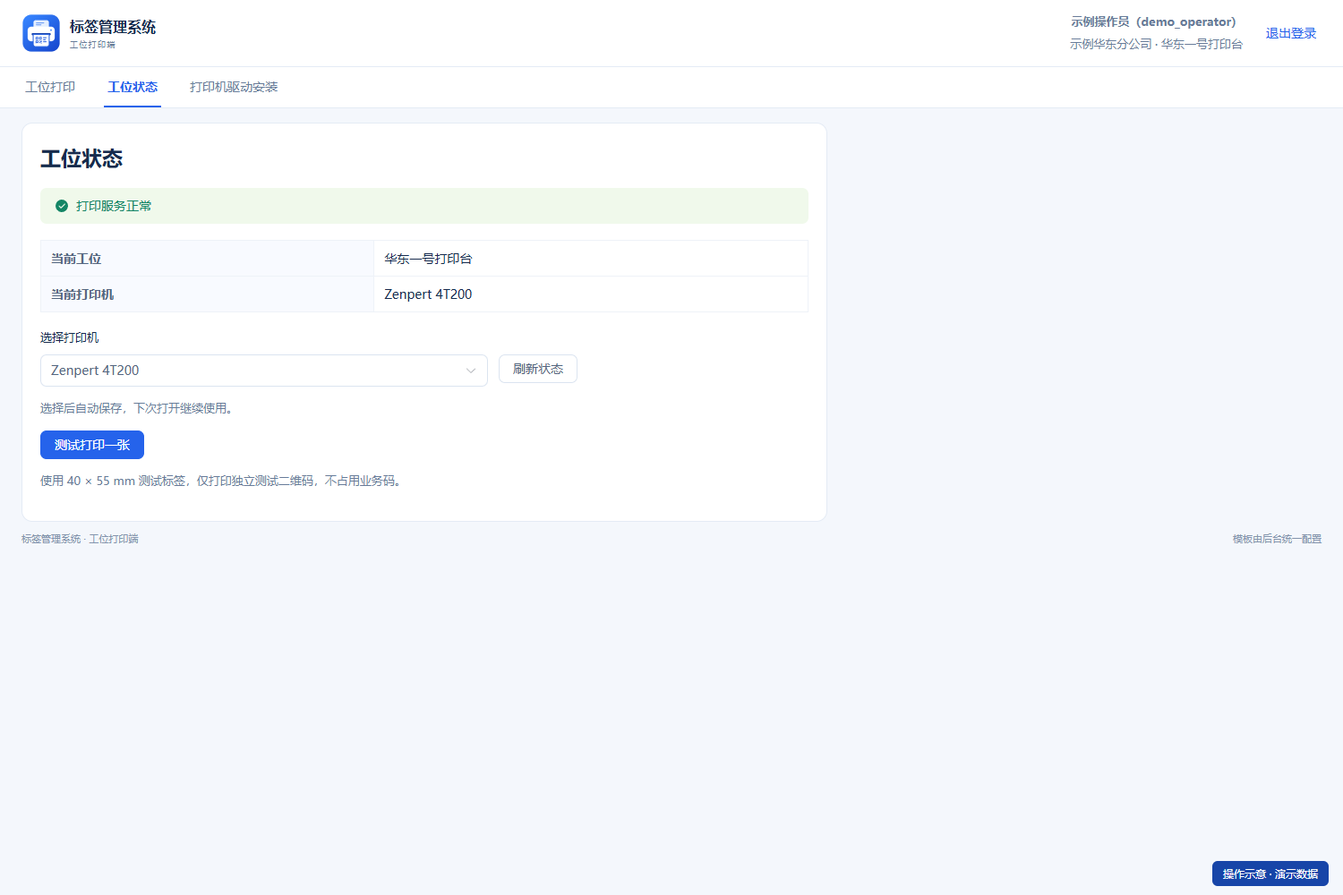
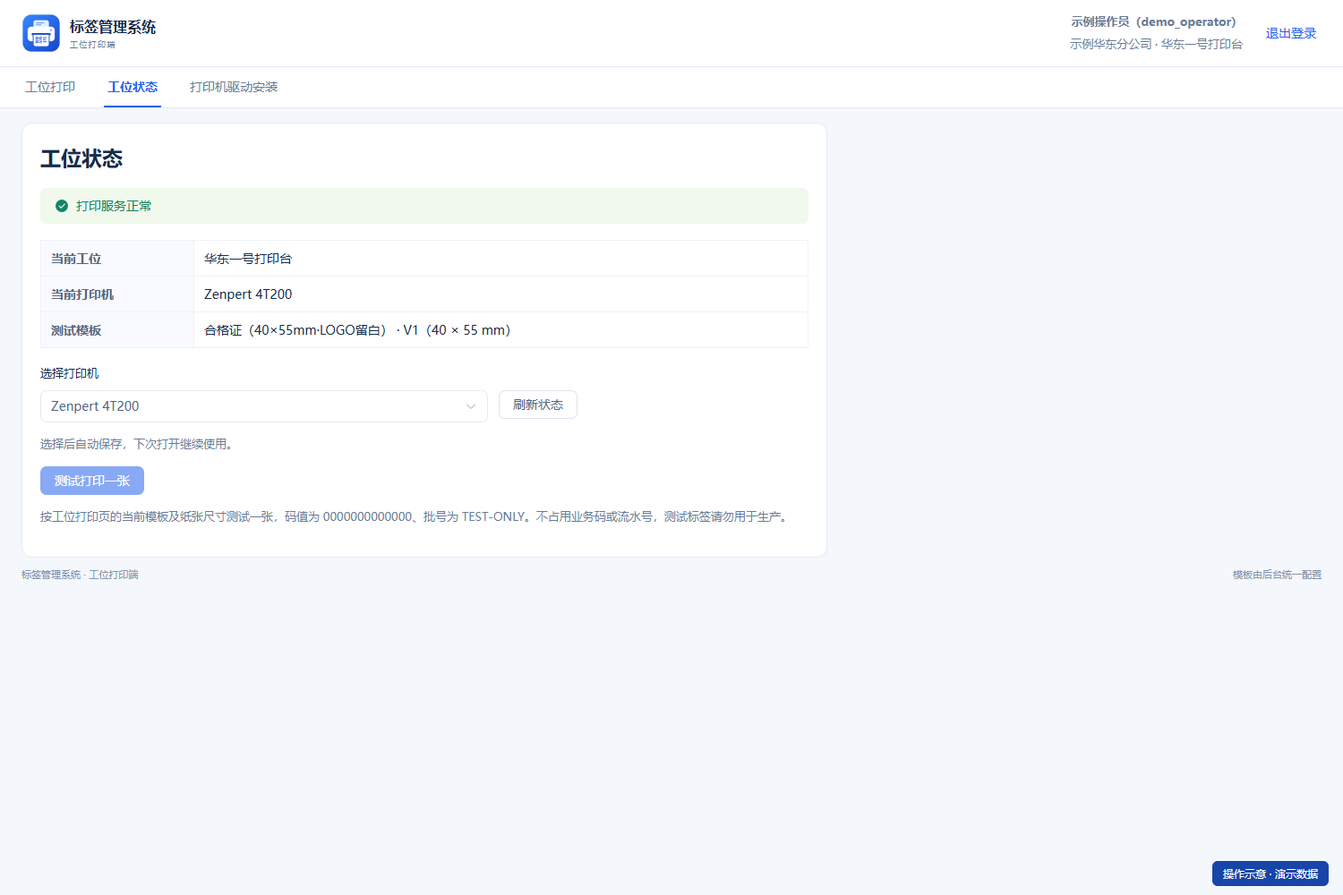
feat: 接入部署服务并完善工位打印与安装包
打印端连接 lms.yuwangchenfa.com，增加受限 IPC 请求通道。支持切回页面刷新码量、按当前模板测试打印并优化三栏布局。提供 Win10 x86/x64 合一安装包配置、验证记录和同步使用说明。

diff --git a/print-client/src/renderer/App.vue b/print-client/src/renderer/App.vue
@@ -10,14 +10,14 @@
       <button v-if="user" class="logout-button" @click="logout">退出登录</button>
     </header>
       <nav class="station-tabs" aria-label="工位导航">
-        <button :class="{ active: tab === 'print' }" @click="tab = 'print'">{{ workstationId ? '工位打印' : '操作员登录' }}</button>
+        <button :class="{ active: tab === 'print' }" @click="showPrint">{{ workstationId ? '工位打印' : '操作员登录' }}</button>
         <button v-if="workstationId" :class="{ active: tab === 'settings' }" @click="tab = 'settings'">工位状态</button>
         <button :class="{ active: tab === 'drivers' }" @click="tab = 'drivers'">打印机驱动安装</button>
       </nav>
     <BindWorkstationView v-if="!workstationId && tab !== 'drivers'" :session-user="user" @bound="onBound" />
       <main v-if="workstationId || tab === 'drivers'" class="station-content">
-        <PrintView v-if="workstationId" v-show="tab === 'print'" />
-        <SettingsView v-if="tab === 'settings' && workstationId" :workstation-id="workstationId" />
+        <PrintView v-if="workstationId" v-show="tab === 'print'" ref="printView" @template-change="currentTemplate = $event" />
+        <SettingsView v-if="tab === 'settings' && workstationId" :workstation-id="workstationId" :current-template="currentTemplate" />
         <DriverInstallView v-if="tab === 'drivers'" :bound="!!workstationId" @settings="tab = workstationId ? 'settings' : 'print'" />
         <footer class="app-footer"><span>标签管理系统 · 工位打印端</span><span>模板由后台统一配置</span></footer>
       </main>
@@ -27,6 +27,7 @@
 import { onMounted, onUnmounted, ref } from 'vue'
 import { setToken } from './api/client'
 import type { MeUser, BindResponse } from './api/workstation'
+import type { TemplatePreview } from './api/print'
 import BindWorkstationView from './views/BindWorkstationView.vue'
 import PrintView from './views/PrintView.vue'
 import SettingsView from './views/SettingsView.vue'
@@ -39,19 +40,27 @@ const user = ref<MeUser | null>(null)
 const boundName = ref('')
 const workstationId = ref<number | null>(null)
 const tab = ref<'print' | 'settings' | 'drivers'>('print')
+const printView = ref<InstanceType<typeof PrintView> | null>(null)
+const currentTemplate = ref<TemplatePreview | null>(null)
+function showPrint(): void {
+  tab.value = 'print'
+  void printView.value?.refresh()
+}
 function onBound(id: number, profile: MeUser, station: BindResponse): void {
+  currentTemplate.value = null
   workstationId.value = id
   user.value = profile
   boundName.value = station.name
 }
 function logout(): void {
+  currentTemplate.value = null
   setToken(null)
   user.value = null
   workstationId.value = null
   boundName.value = ''
   tab.value = 'print'
 }
-function bindingInvalid(): void { workstationId.value = null; boundName.value = ''; tab.value = 'print' }
+function bindingInvalid(): void { currentTemplate.value = null; workstationId.value = null; boundName.value = ''; tab.value = 'print' }
 onMounted(() => window.addEventListener('lms:binding-invalid', bindingInvalid))
 onUnmounted(() => window.removeEventListener('lms:binding-invalid', bindingInvalid))
 </script>

diff --git a/print-client/src/renderer/views/SettingsView.vue b/print-client/src/renderer/views/SettingsView.vue
@@ -5,6 +5,7 @@
     <el-descriptions :column="1" border class="service-details">
       <el-descriptions-item label="当前工位">{{ stationName || '—' }}</el-descriptions-item>
       <el-descriptions-item label="当前打印机">{{ saved || '尚未选择' }}</el-descriptions-item>
+      <el-descriptions-item label="测试模板">{{ currentTemplate ? `${currentTemplate.name} · V${currentTemplate.version_no}（${currentTemplate.elements_json.paper_width_mm} × ${currentTemplate.elements_json.paper_height_mm} mm）` : '请先在工位打印页选择产品并加载当前模板' }}</el-descriptions-item>
     </el-descriptions>
     <label class="field-label">选择打印机</label>
     <div class="printer-choice">
@@ -15,8 +16,8 @@
     </div>
     <p class="hint">选择后自动保存，下次打开继续使用。</p>
     <el-alert v-if="saved && serviceOk && !printers.includes(saved)" title="已保存的打印机当前不可用，请重新选择或检查连接。" type="warning" :closable="false" />
-    <el-button type="primary" :loading="testing" :disabled="!serviceOk || !saved || !printers.includes(saved) || saving" @click="testPrint">测试打印一张</el-button>
-    <p class="hint">使用 40 × 55 mm 测试标签，仅打印独立测试二维码，不占用业务码。</p>
+    <el-button type="primary" :loading="testing" :disabled="!serviceOk || !saved || !printers.includes(saved) || saving || !currentTemplate" @click="testPrint">测试打印一张</el-button>
+    <p class="hint">按工位打印页的当前模板及纸张尺寸测试一张，码值为 0000000000000、批号为 TEST-ONLY。不占用业务码或流水号，测试标签请勿用于生产。</p>
   </section>
 </template>
 <script setup lang="ts">
@@ -26,7 +27,8 @@ import { isPrintServiceAlive, getDefaultPrinter, listPrinters, print } from '../
 import { getMachineBinding, setWorkstationPrinter } from '../api/workstation'
 import { getBoundPrinter, setBoundPrinter } from '../api/client'
 import { testLabel } from '../utils/testLabel'
-const props = defineProps<{workstationId:number}>()
+import type { TemplatePreview } from '../api/print'
+const props = defineProps<{workstationId:number;currentTemplate:TemplatePreview|null}>()
 const serviceOk=ref(false), stationName=ref(''), loading=ref(false), saving=ref(false), testing=ref(false)
 const printers=ref<string[]>([]), saved=ref(getBoundPrinter() ?? ''), selection=ref(saved.value)
 async function save():Promise<void> {
@@ -54,9 +56,10 @@ async function refresh():Promise<void> {
   finally {loading.value=false}
 }
 async function testPrint():Promise<void> {
+  if (!props.currentTemplate) { ElMessage.warning('请先在工位打印页选择产品并加载当前模板'); return }
   testing.value=true
   try {
-    const result=await print({...testLabel(new Date()),deviceName:saved.value})
+    const result=await print({...testLabel(props.currentTemplate,new Date()),deviceName:saved.value})
     if(!result.ok) throw new Error(result.error ?? '测试打印失败')
     ElMessage.success('已发送一张测试标签')
   } catch(e) {ElMessage.error(e instanceof Error ? e.message : '测试打印失败')}

diff --git a/print-client/src/renderer/views/PrintView.vue b/print-client/src/renderer/views/PrintView.vue
@@ -29,7 +29,7 @@
       <div class="print-results">
         <section class="station-panel">
           <h2>本次任务</h2>
-          <el-table v-if="task.length" :data="task" size="small" height="140"><el-table-column prop="code_value" label="码值" min-width="200" /><el-table-column label="结果" width="140"><template #default="{ row }"><el-tag :type="tagType(row)" size="small">{{ tagLabel(row) }}</el-tag></template></el-table-column><el-table-column label="说明" min-width="160"><template #default="{ row }">{{ row.message ?? '—' }}</template></el-table-column></el-table>
+          <el-table v-if="task.length" :data="task" size="small" height="100%"><el-table-column prop="code_value" label="码值" min-width="200" /><el-table-column label="结果" width="140"><template #default="{ row }"><el-tag :type="tagType(row)" size="small">{{ tagLabel(row) }}</el-tag></template></el-table-column><el-table-column label="说明" min-width="160"><template #default="{ row }">{{ row.message ?? '—' }}</template></el-table-column></el-table>
           <el-empty v-else :image-size="40" description="尚未发起打印" />
           <div v-if="hasLocked" class="failure-action"><el-button type="warning" :loading="confirming" @click="doConfirmFailed">标记失败并回退</el-button></div>
         </section>
@@ -40,7 +40,7 @@
 </template>
 <script setup lang="ts">
 import { ElMessage } from 'element-plus'
-import { computed, onMounted, onUnmounted, ref } from 'vue'
+import { computed, onMounted, onUnmounted, ref, watch } from 'vue'
 
 import { ApiError, getBoundWorkstationId, getBoundPrinter, setBoundPrinter, request } from '../api/client'
 import { getMachineBinding, setWorkstationPrinter } from '../api/workstation'
@@ -50,13 +50,15 @@ import {
   startPrint,
   type AcceptedPrint,
   type PrintableCode,
+  type TemplatePreview as TemplatePreviewData,
 } from '../api/print'
 import { isPrintServiceAlive, getDefaultPrinter, listPrinters, print } from '../api/print-service'
 import { useHeartbeat } from '../composables/useHeartbeat'
 import TaskView from './TaskView.vue'
 import TemplatePreview from '../components/TemplatePreview.vue'
-import type { TemplateDoc } from '../../print-render/renderer'
-const preview = ref<{name:string; version_no:number; elements_json:TemplateDoc; data:Record<string,string>} | null>(null)
+const preview = ref<TemplatePreviewData | null>(null)
+const emit = defineEmits<{ 'template-change': [template: TemplatePreviewData | null] }>()
+watch(preview, value => emit('template-change', value))
 
 interface TaskRow {
   code_value: string
@@ -253,6 +255,13 @@ async function doConfirmFailed(): Promise<void> {
 }
 
 let poll: ReturnType<typeof setInterval> | null = null
+
+async function refresh(): Promise<void> {
+  // 打印与结果确认期间保留正在处理的码，完成后原流程会刷新。
+  if (printing.value || confirming.value) return
+  await Promise.all([refreshServiceStatus(), loadCodes()])
+}
+defineExpose({ refresh })
 
 // 心跳必须持续上报：服务端靠它判断本工位是否在线，
 // 停发超过 30 秒后对该工位的补打就会被拒绝（FR-056）

diff --git a/admin-web/src/content/userManual.ts b/admin-web/src/content/userManual.ts
@@ -140,7 +140,7 @@ export const manualSections: ManualSection[] = [
   {
     id:'printer',group:'打印端',title:'20 · 选择打印机并测试一张',audience:'工位操作员',
     intro:'打印机只在“工位状态”里选择。选择会自动保存，下次打开继续使用。',
-    steps:['点击软件上方“工位状态”，先看打印服务是否正常，再确认当前工位名称。','点击“刷新状态”，然后点开“选择打印机”，选择刚安装并实际连接的标签打印机。不要误选“Microsoft Print to PDF”等虚拟打印机。','看到“打印机已保存”提示，核对“当前打印机”是否显示所选名称。如果提示已保存的设备不可用，检查连接，或重新选择正确设备。','先在 Windows 的打印首选项里设置与实际纸张相同的宽高和介质方式。合格证示例为宽 40 mm、高 55 mm；带碳带用热转印，热敏纸按设备要求选择热敏。','点击“测试打印一张”。它会发送一张 40 × 55 mm 独立测试二维码标签，不消耗已分配的业务码，也不会增加业务流水号。点击一次后等设备出纸，不要连续点击。','检查出纸是否一张一停、二维码是否清楚、文字是否缺失或偏移。测试不正常时先检查驱动、纸张、方向和耗材；更换纸张后按打印机说明书校准。测试正常后返回“工位打印”。'],
+    steps:['点击软件上方“工位状态”，先看打印服务是否正常，再确认当前工位名称。','点击“刷新状态”，然后点开“选择打印机”，选择刚安装并实际连接的标签打印机。不要误选“Microsoft Print to PDF”等虚拟打印机。','看到“打印机已保存”提示，核对“当前打印机”是否显示所选名称。如果提示已保存的设备不可用，检查连接，或重新选择正确设备。','先在 Windows 的打印首选项里设置与实际纸张相同的宽高和介质方式。合格证示例为宽 40 mm、高 55 mm；带碳带用热转印，热敏纸按设备要求选择热敏。','点击“测试打印一张”。它会按“工位打印”页当前产品的模板和实际纸张尺寸发送一张测试标签。没有当前模板时，先返回工位打印页选择产品并加载模板。测试码为 0000000000000、批号为 TEST-ONLY，日期和流水号使用测试值；不消耗业务码或业务流水号，测试标签不要贴到产品上。点击一次后等设备出纸，不要连续点击。','检查出纸是否一张一停、二维码是否清楚、文字是否缺失或偏移。测试不正常时先检查驱动、纸张、方向和耗材；更换纸张后按打印机说明书校准。测试正常后返回“工位打印”。'],
     images:[{file:'print-settings.png',caption:'工位状态：刷新、选择并保存打印机，再点击“测试打印一张”。'}],
   },
   {

diff --git a/print-client/tests/unit/service-request.spec.ts b/print-client/tests/unit/service-request.spec.ts
@@ -1,0 +1,37 @@
+import { describe, expect, it, vi } from 'vitest'
+import { requestService } from '../../src/main/serviceRequest'
+import { SERVICE_ORIGIN, serviceUrl, type ServiceRequest } from '../../src/serviceConfig'
+
+const request:ServiceRequest={path:'/api/v1/auth/login',method:'POST',headers:{'content-type':'application/json','x-lms-machine-id':'test-machine'},body:'{"username":"example"}'}
+
+describe('固定部署服务请求',()=>{
+  it('将相对业务路径解析到部署域名，并保留查询参数',()=>{
+    expect(serviceUrl('/api/v1/workstation/binding?machine_id=test')).toBe(`${SERVICE_ORIGIN}/api/v1/workstation/binding?machine_id=test`)
+  })
+  it('拒绝外部地址、非业务路径和目录逃逸',()=>{
+    for(const path of ['https://example.com/','//example.com/api/v1/auth/me','/health','/api/v1/../../secret','/api/v1/\\example.com'])expect(()=>serviceUrl(path)).toThrow()
+  })
+  it('保留鉴权与机器标识，禁止重定向并设置超时',async()=>{
+    const transport=vi.fn<typeof fetch>().mockResolvedValue(new Response('{"access_token":"test"}',{status:200}))
+    const response=await requestService({...request,headers:{...request.headers,authorization:'Bearer example'}},transport)
+    expect(response.status).toBe(200)
+    const [url,options]=transport.mock.calls[0]
+    expect(url).toBe(`${SERVICE_ORIGIN}/api/v1/auth/login`)
+    expect(options?.body).toBe(request.body)
+    expect(new Headers(options?.headers).get('authorization')).toBe('Bearer example')
+    expect(new Headers(options?.headers).get('x-lms-machine-id')).toBe('test-machine')
+    expect(options?.redirect).toBe('error')
+    expect(options?.signal).toBeInstanceOf(AbortSignal)
+  })
+  it('原样传回未登录错误和空响应，供渲染层处理业务状态',async()=>{
+    const transport=vi.fn<typeof fetch>().mockResolvedValueOnce(new Response('{"error_code":"INVALID_CREDENTIALS"}',{status:401})).mockResolvedValueOnce(new Response(null,{status:204}))
+    expect((await requestService(request,transport)).status).toBe(401)
+    expect(await requestService(request,transport)).toMatchObject({status:204,body:''})
+  })
+  it('拒绝任意请求头和不支持的方法，且不会发起网络请求',async()=>{
+    const transport=vi.fn<typeof fetch>()
+    await expect(requestService({...request,headers:{host:'example.com'}},transport)).rejects.toThrow()
+    await expect(requestService({...request,method:'CONNECT'},transport)).rejects.toThrow()
+    expect(transport).not.toHaveBeenCalled()
+  })
+})

diff --git a/print-client/tests/unit/client-service-bridge.spec.ts b/print-client/tests/unit/client-service-bridge.spec.ts
@@ -1,0 +1,31 @@
+import { afterEach, describe, expect, it, vi } from 'vitest'
+import { ApiError, request, setBoundPrinter, setBoundWorkstationId, setToken, getBoundPrinter, getBoundWorkstationId } from '../../src/renderer/api/client'
+
+afterEach(()=>vi.unstubAllGlobals())
+function setup(status:number, body:string){
+  const data=new Map<string,string>()
+  vi.stubGlobal('localStorage',{getItem:(key:string)=>data.get(key)??null,setItem:(key:string,value:string)=>data.set(key,value),removeItem:(key:string)=>data.delete(key)})
+  const apiRequest=vi.fn().mockResolvedValue({status,statusText:'',body})
+  const dispatchEvent=vi.fn()
+  vi.stubGlobal('window',{lmsBridge:{machineId:'test-machine',apiRequest},dispatchEvent})
+  return {apiRequest,dispatchEvent}
+}
+describe('渲染层通过主进程访问服务',()=>{
+  it('发送账号令牌、机器标识和 JSON 正文，并解析远程响应',async()=>{
+    const {apiRequest}=setup(200,'{"ok":true}')
+    setToken('example-token')
+    expect(await request('/api/v1/workstation/heartbeat',{method:'POST',json:{workstation_id:1}})).toEqual({ok:true})
+    expect(apiRequest).toHaveBeenCalledWith(expect.objectContaining({path:'/api/v1/workstation/heartbeat',method:'POST',body:'{"workstation_id":1}',headers:expect.objectContaining({authorization:'Bearer example-token','x-lms-machine-id':'test-machine','content-type':'application/json'})}))
+  })
+  it('保留远程错误信息并在绑定失效时清除旧工位',async()=>{
+    const {dispatchEvent}=setup(403,'{"error_code":"WORKSTATION_NOT_BOUND","message":"工位已解绑","details":{}}')
+    setBoundWorkstationId(1);setBoundPrinter('Printer')
+    await expect(request('/api/v1/workstation/codes')).rejects.toBeInstanceOf(ApiError)
+    expect(getBoundWorkstationId()).toBeNull();expect(getBoundPrinter()).toBeNull()
+    expect(dispatchEvent).toHaveBeenCalledWith(expect.objectContaining({type:'lms:binding-invalid'}))
+  })
+  it('正确处理没有正文的心跳响应',async()=>{
+    setup(204,'')
+    expect(await request('/api/v1/workstation/heartbeat',{method:'POST',json:{workstation_id:1}})).toBeUndefined()
+  })
+})

diff --git a/print-client/src/renderer/station.css b/print-client/src/renderer/station.css
@@ -61,14 +61,17 @@ html,body,#app {height:100%;margin:0;overflow:hidden;}
 .station-content>.print[style*="display: none"] {display:none!important;}
 .print .head {margin-bottom:12px;gap:10px;flex-shrink:0;}
 .print h1 {font-size:23px;}
-.print-layout {flex:1;min-height:0;grid-template-columns:240px minmax(180px,.8fr) minmax(290px,1.2fr);gap:14px;}
+.print-layout {flex:1;min-height:0;grid-template-columns:clamp(210px,20vw,260px) minmax(260px,1.15fr) minmax(300px,1fr);gap:16px;}
 .station-panel>h2,.station-shell .tasks>.head {padding:12px 16px;font-size:15px;}
 .print-config {overflow:auto;}
 .template-panel {display:flex;flex-direction:column;min-height:0;}
 .template-caption,.preview-note {margin:10px 14px;color:var(--lms-muted);font-size:12px;line-height:1.6;flex-shrink:0;}
 .template-caption {color:var(--lms-text);}
-.print-results {min-height:0;gap:12px;overflow:auto;}
-.print-results>section {flex-shrink:0;}
+.print-results {display:grid;grid-template-rows:minmax(0,1fr) minmax(0,1fr);min-height:0;gap:16px;overflow:visible;}
+.print-results>section {display:flex;flex-direction:column;min-height:0;min-width:0;}
+.print-results .el-empty {flex:1;min-height:0;}
+.print-results .el-table {flex:1;min-height:0;}
+.print-results>section>h2,.print-results>section>.head,.failure-action {flex-shrink:0;}
 .station-shell .tasks {margin-top:0;}
 .print-results .el-empty {padding:12px 0;}
 .print-results .el-empty__description {margin-top:8px;}
@@ -80,7 +83,8 @@ html,body,#app {height:100%;margin:0;overflow:hidden;}
 .station-shell .bind {box-sizing:border-box;min-height:0;max-height:calc(100dvh - 100px);overflow:auto;margin:16px auto;padding:24px;}
 @media(max-width:900px) {
  .station-content {padding:12px 12px 0;}
- .print-layout {grid-template-columns:210px minmax(160px,.8fr) minmax(240px,1fr);gap:10px;}
+ .print-layout {grid-template-columns:190px minmax(210px,1.1fr) minmax(240px,1fr);gap:12px;}
+ .print-results {gap:12px;}
  .print .eyebrow,.print .page-description,.print-status .bound {display:none;}
  .station-header {padding:12px 16px;gap:12px;}
  .template-caption,.preview-note {margin:8px;font-size:11px;}

diff --git a/print-client/tests/unit/test-label.spec.ts b/print-client/tests/unit/test-label.spec.ts
@@ -1,0 +1,31 @@
+import { describe, expect, it } from 'vitest'
+import { testLabel } from '../../src/renderer/utils/testLabel'
+import { renderToString } from '../../src/print-render/renderer'
+import type { TemplatePreview } from '../../src/renderer/api/print'
+
+describe('使用当前模板测试打印',()=>{
+  const template:TemplatePreview={name:'当前模板',version_no:2,elements_json:{paper_width_mm:60,paper_height_mm:30,elements:[
+    {type:'text',x:1,y:1,width:30,height:4,font_size:3,content:'当前模板标题',rotation:90},
+    {type:'barcode',x:1,y:6,width:30,height:8,symbology:'ean13',field_name:'code_value'},
+    {type:'field',x:1,y:15,width:40,height:4,font_size:3,field_name:'production_batch_no'},
+    {type:'date',x:1,y:20,width:25,height:4,font_size:3},
+    {type:'serial',x:30,y:20,width:20,height:4,font_size:3,serial_digits:5},
+  ]},data:{code_value:'6901234567892',production_batch_no:'REAL-BATCH',print_date:'2026-01-01',serial_no:'123'}}
+  it('保留当前模板尺寸、排版与旋转属性，不修改原模板或真实数据',()=>{
+    const original=JSON.stringify(template)
+    const job=testLabel(template,new Date('2026-10-18T18:00:00Z'))
+    expect(job.doc).toEqual(template.elements_json)
+    expect(job.doc).not.toBe(template.elements_json)
+    expect(job.data).toMatchObject({code_value:'0000000000000',production_batch_no:'TEST-ONLY',print_date:'2026-10-19',serial_no:'0'})
+    expect(JSON.stringify(template)).toBe(original)
+  })
+  it('日期和编号为测试值，条码可正常生成且不会输出真实码或批号',()=>{
+    const job=testLabel(template,new Date('2026-10-18T00:00:00Z'))
+    const html=renderToString(job.doc,job.data)
+    expect(html).toContain('当前模板标题')
+    expect(html).toContain('TEST-ONLY')
+    expect(html).toContain('00000')
+    expect(html).not.toContain('REAL-BATCH')
+    expect(html).not.toContain('6901234567892')
+  })
+})

diff --git a/print-client/src/renderer/utils/testLabel.ts b/print-client/src/renderer/utils/testLabel.ts
@@ -1,14 +1,19 @@
+import type { TemplatePreview } from '../api/print'
 import type { TemplateDoc } from '../../print-render/renderer'
 
-/** 独立测试标签，不调用业务码预占或确认接口。 */
-export function testLabel(now: Date): {doc:TemplateDoc;data:Record<string,string>} {
+/** 原样使用当前版式和尺寸，只替换演示数据；不预占业务码或申请流水号。 */
+export function testLabel(template:TemplatePreview,now:Date):{doc:TemplateDoc;data:Record<string,string>} {
+  const date = new Intl.DateTimeFormat('en-CA',{
+    timeZone:'Asia/Shanghai',year:'numeric',month:'2-digit',day:'2-digit',
+  }).format(now)
   return {
-    doc:{paper_width_mm:40,paper_height_mm:55,elements:[
-      {type:'text',x:3,y:3,width:34,height:6,font_size:4,bold:true,align:'center',content:'测试打印'},
-      {type:'qrcode',x:9,y:12,size:22,field_name:'test_code'},
-      {type:'text',x:3,y:37,width:34,height:5,font_size:2.5,align:'center',content:'仅供打印测试'},
-      {type:'field',x:2,y:44,width:36,height:4,font_size:2,align:'center',field_name:'test_time'},
-    ]},
-    data:{test_code:`LMS-TEST-${now.getTime()}`,test_time:now.toLocaleString('zh-CN',{hour12:false})},
+    doc:JSON.parse(JSON.stringify(template.elements_json)) as TemplateDoc,
+    data:{
+      ...template.data,
+      code_value:'0000000000000',
+      production_batch_no:'TEST-ONLY',batch_no:'TEST-ONLY',
+      product_name:'测试产品',company_name:'测试打印',
+      print_date:date,serial_no:'0',
+    },
   }
 }

diff --git a/print-client/src/main/index.ts b/print-client/src/main/index.ts
@@ -9,7 +9,9 @@
  * 启动顺序有讲究：打印服务必须先于窗口就绪，否则界面一打开就显示"打印服务未启动"。
  */
 
-import { app, BrowserWindow, shell } from 'electron'
+import { app, BrowserWindow, shell, ipcMain, net } from 'electron'
+import { requestService } from './serviceRequest'
+import type { ServiceRequest } from '../serviceConfig'
 import { isPrinterSupportUrl } from '../printerSupport'
 import { join } from 'node:path'
 import { loadMachineIdentity } from './machineIdentity'
@@ -58,6 +60,12 @@ function createWindow(): BrowserWindow {
 }
 
 void app.whenReady().then(async () => {
+  ipcMain.handle('lms:service-request', (event, request: ServiceRequest) => {
+    if (event.sender !== mainWindow?.webContents || event.senderFrame !== mainWindow.webContents.mainFrame) {
+      throw new Error('无权访问业务服务')
+    }
+    return requestService(request, net.fetch.bind(net))
+  })
   if (process.platform === 'win32') app.setAppUserModelId('com.labelmgmt.print-client')
   const machineId = loadMachineIdentity(app.getPath('appData'), app.getPath('userData'))
   process.env.LMS_MACHINE_ID = machineId

diff --git a/print-client/src/main/serviceRequest.ts b/print-client/src/main/serviceRequest.ts
@@ -1,0 +1,22 @@
+import { serviceUrl, type ServiceRequest, type ServiceResponse } from '../serviceConfig'
+
+/** 仅代理固定业务服务，避免 file:// 安装版和开发版受到浏览器跨域限制。 */
+export async function requestService(
+  request: ServiceRequest,
+  transport: (url: string, init?: RequestInit) => Promise<Response>,
+): Promise<ServiceResponse> {
+  const url = serviceUrl(request.path)
+  if (!['GET', 'POST', 'PUT', 'PATCH', 'DELETE'].includes(request.method)) throw new Error('无效的请求方法')
+  const headers = new Headers()
+  for (const [key, value] of Object.entries(request.headers)) {
+    if (!['authorization', 'content-type', 'x-lms-machine-id'].includes(key.toLowerCase())) {
+      throw new Error('无效的请求头')
+    }
+    headers.set(key, value)
+  }
+  const response = await transport(url, {
+    method: request.method, headers, body: request.body,
+    redirect: 'error', credentials: 'omit', signal: AbortSignal.timeout(30000),
+  })
+  return { status: response.status, statusText: response.statusText, body: await response.text() }
+}

diff --git a/print-client/src/main/preload.ts b/print-client/src/main/preload.ts
@@ -1,13 +1,15 @@
 /**
  * preload：把本地打印服务的端口与令牌交给渲染层。
  *
- * 只暴露这两个值，不开放任何 Node 能力（contextIsolation: true, nodeIntegration: false）。
+ * 暴露打印配置和受限业务请求，不开放通用 Node 能力（contextIsolation: true）。
  * 令牌是启动时随机生成的，本机其他程序拿不到——避免被扫端口驱动打印机。
  */
 
-import { contextBridge } from 'electron'
+import { contextBridge, ipcRenderer } from 'electron'
+import type { ServiceRequest } from '../serviceConfig'
 
 contextBridge.exposeInMainWorld('lmsBridge', {
+  apiRequest: (request: ServiceRequest) => ipcRenderer.invoke('lms:service-request', request),
   machineId: process.argv.find(arg => arg.startsWith('--lms-machine-id='))?.slice('--lms-machine-id='.length) ?? String(process.env.LMS_MACHINE_ID ?? ''),
   printServicePort: Number(process.env.LMS_PRINT_PORT ?? 0),
   printServiceToken: String(process.env.LMS_PRINT_TOKEN ?? ''),
